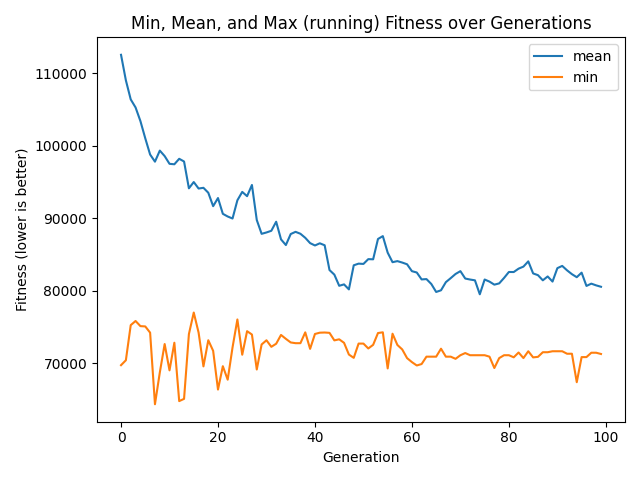
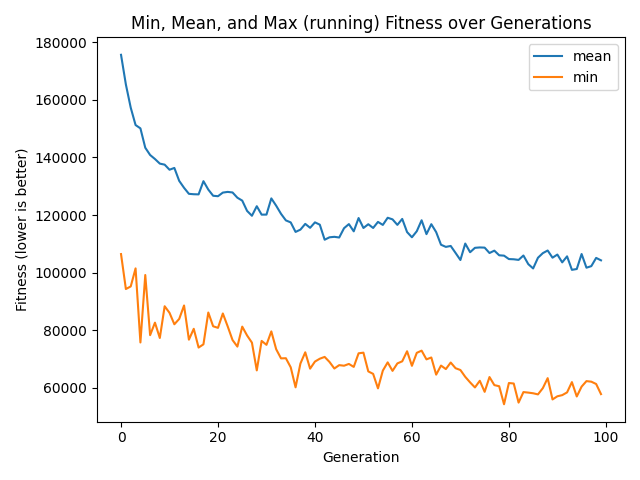
Better results, but unoptimised

diff --git a/main.py b/main.py
@@ -9,60 +9,93 @@ import selectors
 import crossovers
 import mutators
 import numpy as np
+import visualiser
 import matplotlib.pyplot as plt
+import time
 
 path_midi = './Prelude1.mid'
 mido_obj = mid_parser.MidiFile(path_midi)
 notes = mido_obj.instruments[0].notes
 
+ticks_per_beat = mido_obj.ticks_per_beat
 min_note = 28
 max_note = 108
 pitch_range = (min_note, max_note)
-
-ticks_per_beat = mido_obj.ticks_per_beat
+duration_range = (0, ticks_per_beat*4)  # Up to 4 beats in duration
 
 target_pr = pr_parser.notes2pianoroll(
                     notes, pitch_range)[0:ticks_per_beat*4, :]  # Use only the first 4 beats for simplicity
 
 population_size = 100
-population = evolution.generate_population(population_size, 5, 2, (60, 80), (int(ticks_per_beat*0.25), int(ticks_per_beat*2)), ticks_per_beat*4)
+population = evolution.generate_population(population_size, 12, 2, (60, 80), (int(ticks_per_beat*0.25), int(ticks_per_beat*2)), ticks_per_beat*4)
 
 min_fitnesses = []
 mean_fitnesses = []
 gens = []
 
-minor_mut_rate = 0.05
+minor_mut_rate = 0.2
 major_mut_rate = 0.1
+starting_regen_rate = 0.3
+ending_regen_rate = 0.02
 
 best_individual = None
 best_fitness = float('inf')
-for generation in range(100):
+generations = 100
+for generation in range(generations):
+    print(f"Generation {generation}")
     fitnesses = []
+    best_gen_fitness = float('inf')
+    best_gen_individual = None
+    eval_time = 0
     for i in range(len(population)):
+        start = time.perf_counter()
         fitness = evaluators.evaluate_individual(population[i], target_pr, pitch_range = pitch_range)
+        eval_time += time.perf_counter() - start
         fitnesses.append(fitness)
         if fitness < best_fitness:
             best_fitness = fitness
             best_individual = population[i]
+        if fitness < best_gen_fitness:
+            best_gen_fitness = fitness
+            best_gen_individual = population[i]
 
-    print(f"Gen {generation}: {np.min(fitnesses)}, {np.mean(fitnesses)}")
+    print(f"Evaluation time for generation {generation}: {eval_time:.2f} seconds")
 
-    parents = selectors.select(population, fitnesses, num_parents=population_size//2)
+    percent_regen = starting_regen_rate + (ending_regen_rate - starting_regen_rate) * (generation / generations)
+    parents = selectors.linear_rank_select(population, fitnesses, num_parents=int(2*(population_size*(1-percent_regen))))
+    amount_to_generate = population_size - len(parents)
 
     new_pop = []
 
+    crossover_time = 0
+    mutate_time = 0
     for parent_pair in zip(parents, parents[1:] + [parents[0]]):  # Pair each parent with the next one (circular)
+        start = time.perf_counter()
         child1, child2 = crossovers.alternate_crossover(parent_pair[0], parent_pair[1])
-        child1 = mutators.mutate(child1, add_note_rate=minor_mut_rate, remove_note_rate=minor_mut_rate, change_pitch_rate=major_mut_rate, change_duration_rate=major_mut_rate, change_start_rate=major_mut_rate, duration_range=(int(ticks_per_beat*0.25), int(ticks_per_beat*2)), length=ticks_per_beat*4)
-        child2 = mutators.mutate(child2, add_note_rate=minor_mut_rate, remove_note_rate=minor_mut_rate, change_pitch_rate=major_mut_rate, change_duration_rate=major_mut_rate, change_start_rate=major_mut_rate, duration_range=(int(ticks_per_beat*0.25), int(ticks_per_beat*2)), length=ticks_per_beat*4)
+        crossover_time += time.perf_counter() - start
+        start = time.perf_counter()
+        child1 = mutators.mutate(child1, add_note_rate=minor_mut_rate/2, remove_note_rate=minor_mut_rate, split_note_rate=major_mut_rate/2, change_pitch_rate=major_mut_rate, change_duration_rate=major_mut_rate, change_start_rate=major_mut_rate, duration_range=(int(ticks_per_beat*0.25), int(ticks_per_beat*2)), length=ticks_per_beat*4)
+        child2 = mutators.mutate(child2, add_note_rate=minor_mut_rate/2, remove_note_rate=minor_mut_rate, split_note_rate=major_mut_rate/2, change_pitch_rate=major_mut_rate, change_duration_rate=major_mut_rate, change_start_rate=major_mut_rate, duration_range=(int(ticks_per_beat*0.25), int(ticks_per_beat*2)), length=ticks_per_beat*4)
+        mutate_time += time.perf_counter() - start
         new_pop.append(child1)
         new_pop.append(child2)
 
+    print(f"Crossover time for generation {generation}: {crossover_time:.2f} seconds")
+    print(f"Mutation time for generation {generation}: {mutate_time:.2f} seconds")
+
     population = new_pop
+    generated_pop = evolution.generate_population(amount_to_generate, 12, 2, (60, 80), (int(ticks_per_beat*0.25), int(ticks_per_beat*2)), ticks_per_beat*4)
+    population.extend(generated_pop)
     
     min_fitnesses.append(np.min(fitnesses))
     mean_fitnesses.append(np.mean(fitnesses))
     gens.append(generation)
+
+    # Visualise the best individual every 10 generations
+    # if generation % 10 == 0:
+    visualiser.plot_piano_roll(pr_parser.notes2pianoroll(best_gen_individual, pitch_range, time_portion=duration_range), target_pr, f'img\\output.png')
+
+    print(f"Gen {generation}: {np.min(fitnesses)}, {np.mean(fitnesses)}")
 
 midi_io.notes_to_midi(best_individual, 'output.mid', ticks_per_beat=ticks_per_beat)
 

diff --git a/mutators.py b/mutators.py
@@ -2,7 +2,7 @@ import random
 import miditoolkit
 import numpy as np
 
-def mutate(individual, add_note_rate, remove_note_rate, change_pitch_rate, change_duration_rate, change_start_rate, duration_range, length):
+def mutate(individual, add_note_rate, remove_note_rate, split_note_rate, change_pitch_rate, change_duration_rate, change_start_rate, duration_range, length):
     new_individual = []
 
     for note in individual:
@@ -28,7 +28,7 @@ def mutate(individual, add_note_rate, remove_note_rate, change_pitch_rate, chang
         start=np.random.randint(0, length-duration)
         new_note = miditoolkit.Note(
             velocity=int(np.random.normal(64, 10)),
-            pitch=random.randint(21, 108),
+            pitch=random.randint(60, 80),
             start=start, # Random start time, can be adjusted as needed
             end=start+duration
         )
@@ -36,5 +36,15 @@ def mutate(individual, add_note_rate, remove_note_rate, change_pitch_rate, chang
         
     if random.random() < remove_note_rate and len(new_individual) > 1:
         new_individual.pop(random.randint(0, len(new_individual) - 1))
+
+    if random.random() < split_note_rate and len(new_individual) > 0:
+        note_to_split = random.choice(new_individual)
+        new_individual.remove(note_to_split)
+        split_point = note_to_split.start + note_to_split.duration // 2
+        first_half = miditoolkit.Note(note_to_split.velocity, note_to_split.pitch, note_to_split.start, split_point - note_to_split.duration // 5)
+        second_half = miditoolkit.Note(note_to_split.velocity, note_to_split.pitch, split_point + note_to_split.duration // 5, note_to_split.end)
+        new_individual.extend([first_half, second_half])
     
+    new_individual.sort(key=lambda x: (x.start, x.duration))  # Ensure notes are sorted by start time
+
     return new_individual

diff --git a/selectors.py b/selectors.py
@@ -1,6 +1,6 @@
 import random
 
-def select(population, fitnesses, num_parents):
+def roulette_select(population, fitnesses, num_parents):
     """Roulette-wheel selection where lower fitness is preferred.
 
     Converts fitness values to selection weights by inverting them (1 / (fitness + eps)).
@@ -24,3 +24,20 @@ def select(population, fitnesses, num_parents):
     # Normalize weights and perform roulette sampling (with replacement)
     weights = [w / total for w in inv_weights]
     return random.choices(population, weights=weights, k=num_parents)
+
+def linear_rank_select(population, fitnesses, num_parents):
+    """Linear rank selection where lower fitness is preferred.
+
+    Ranks individuals by fitness and assigns selection probabilities based on rank.
+    """
+    # Sort population by fitness (lower is better)
+    sorted_population = sorted(zip(population, fitnesses), key=lambda x: x[1])
+    ranked_population = [ind for ind, fit in sorted_population]
+
+    # Assign selection probabilities based on rank
+    n = len(population)
+    total_rank = n * (n + 1) / 2  # Sum of ranks from 1 to n
+    probabilities = [(n - rank) / total_rank for rank in range(n)]  # Higher rank => higher probability
+
+    # Sample parents based on these probabilities
+    return random.choices(ranked_population, weights=probabilities, k=num_parents)

diff --git a/visualiser.py b/visualiser.py
@@ -1,0 +1,29 @@
+import matplotlib
+import miditoolkit
+import numpy as np
+import matplotlib.pyplot as plt
+
+def plot_piano_roll(ind_pr, target_pr, output_image_path):
+    # Plot the piano roll
+    plt.figure(figsize=(12, 6))
+    shown_pr = np.zeros(ind_pr.T.shape)
+    for i in range(ind_pr.shape[0]):
+        for j in range(ind_pr.shape[1]):
+            if ind_pr[i, j] > 0 and target_pr[i, j] > 0:
+                shown_pr[j, i] = 2  # Show matching notes in a different color
+            if ind_pr[i,j] == 0 and target_pr[i, j] == 0:
+                shown_pr[j, i] = 0 # Show matching spaces in a different color
+            if ind_pr[i, j] > 0 and target_pr[i, j] == 0:
+                shown_pr[j, i] = 1 # Show extra notes in a different color
+            if ind_pr[i, j] == 0 and target_pr[i, j] > 0:
+                shown_pr[j, i] = 3 # Show missing notes in a different color
+    plt.imshow(shown_pr, aspect='auto', origin='lower', cmap='Dark2', extent=[0, ind_pr.shape[1]/100, 0, 128])
+    plt.colorbar(label='Velocity')
+    plt.xlabel('Time (s)')
+    plt.ylabel('MIDI Note Number')
+    plt.title('Piano Roll')
+    plt.grid(False)
+
+    # Save the plot as an image
+    plt.savefig(output_image_path)
+    plt.close()

diff --git a/evaluators.py b/evaluators.py
@@ -19,5 +19,6 @@ def evaluate_individual(individual, target_pr, pitch_range):
                 fitness += 100 # Penalize missing notes heavily
             else:
                 fitness += (int((target_pr[i, j] - ind_pr[i, j])) ** 2) / 100 # Penalize differences in velocity
+            # fitness += 1 if target_pr[i, j] != ind_pr[i, j] else 0
 
     return fitness
